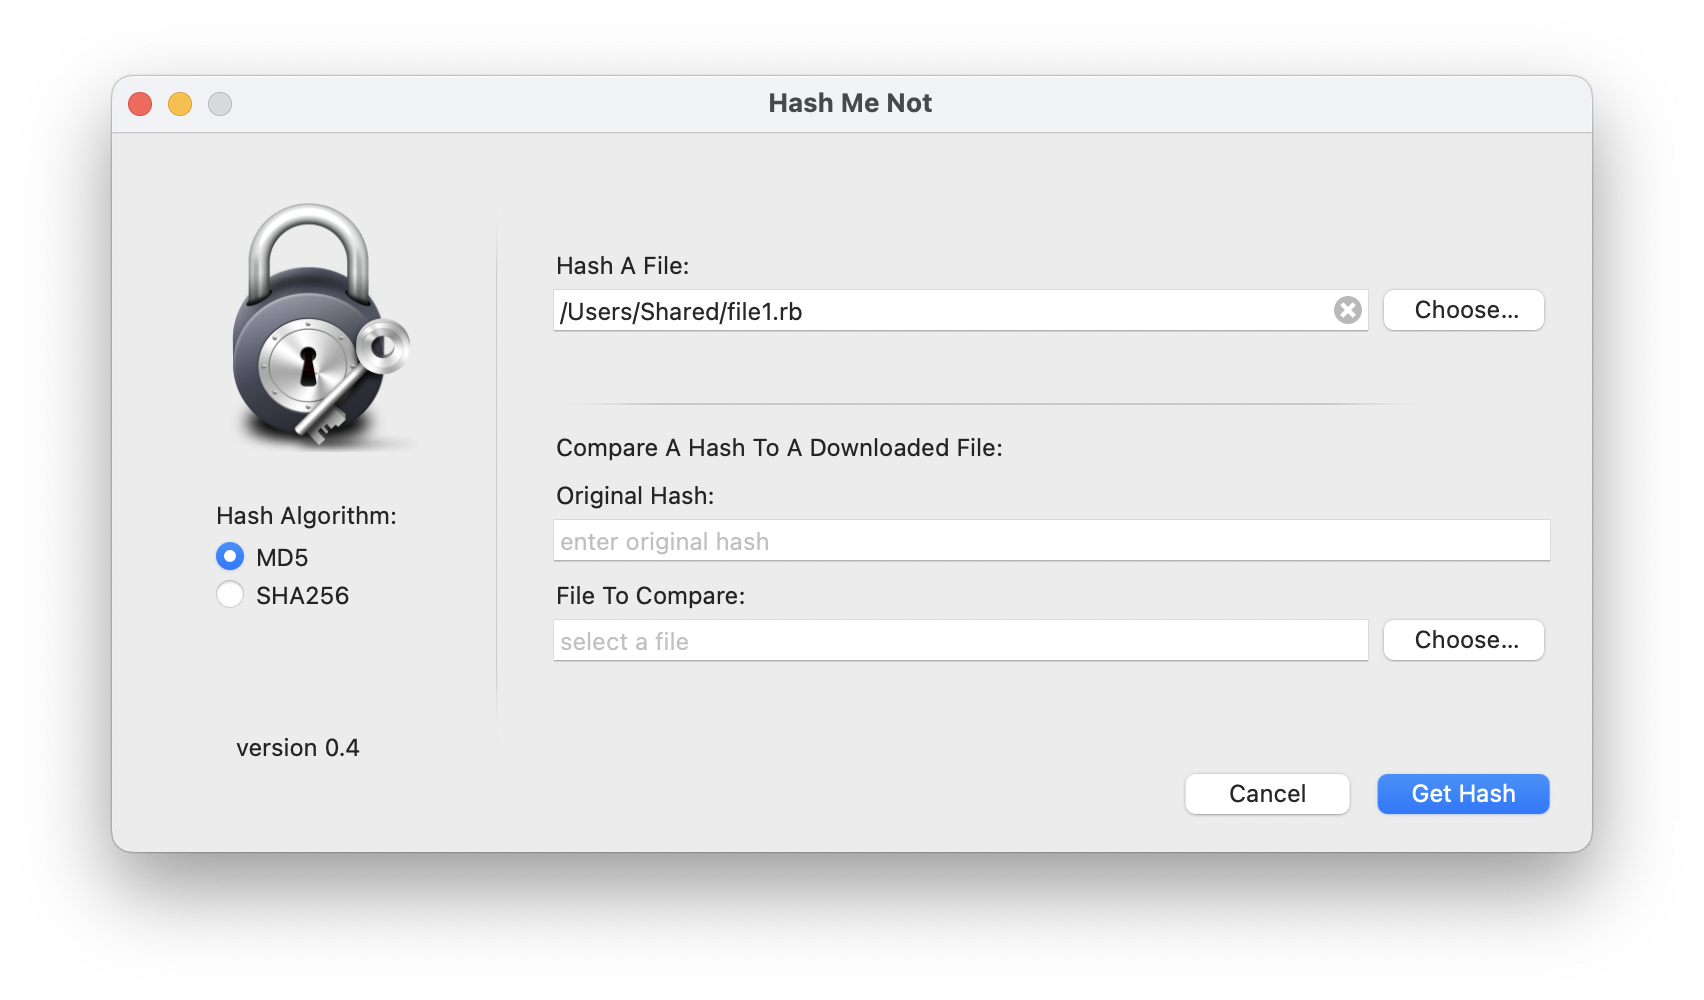
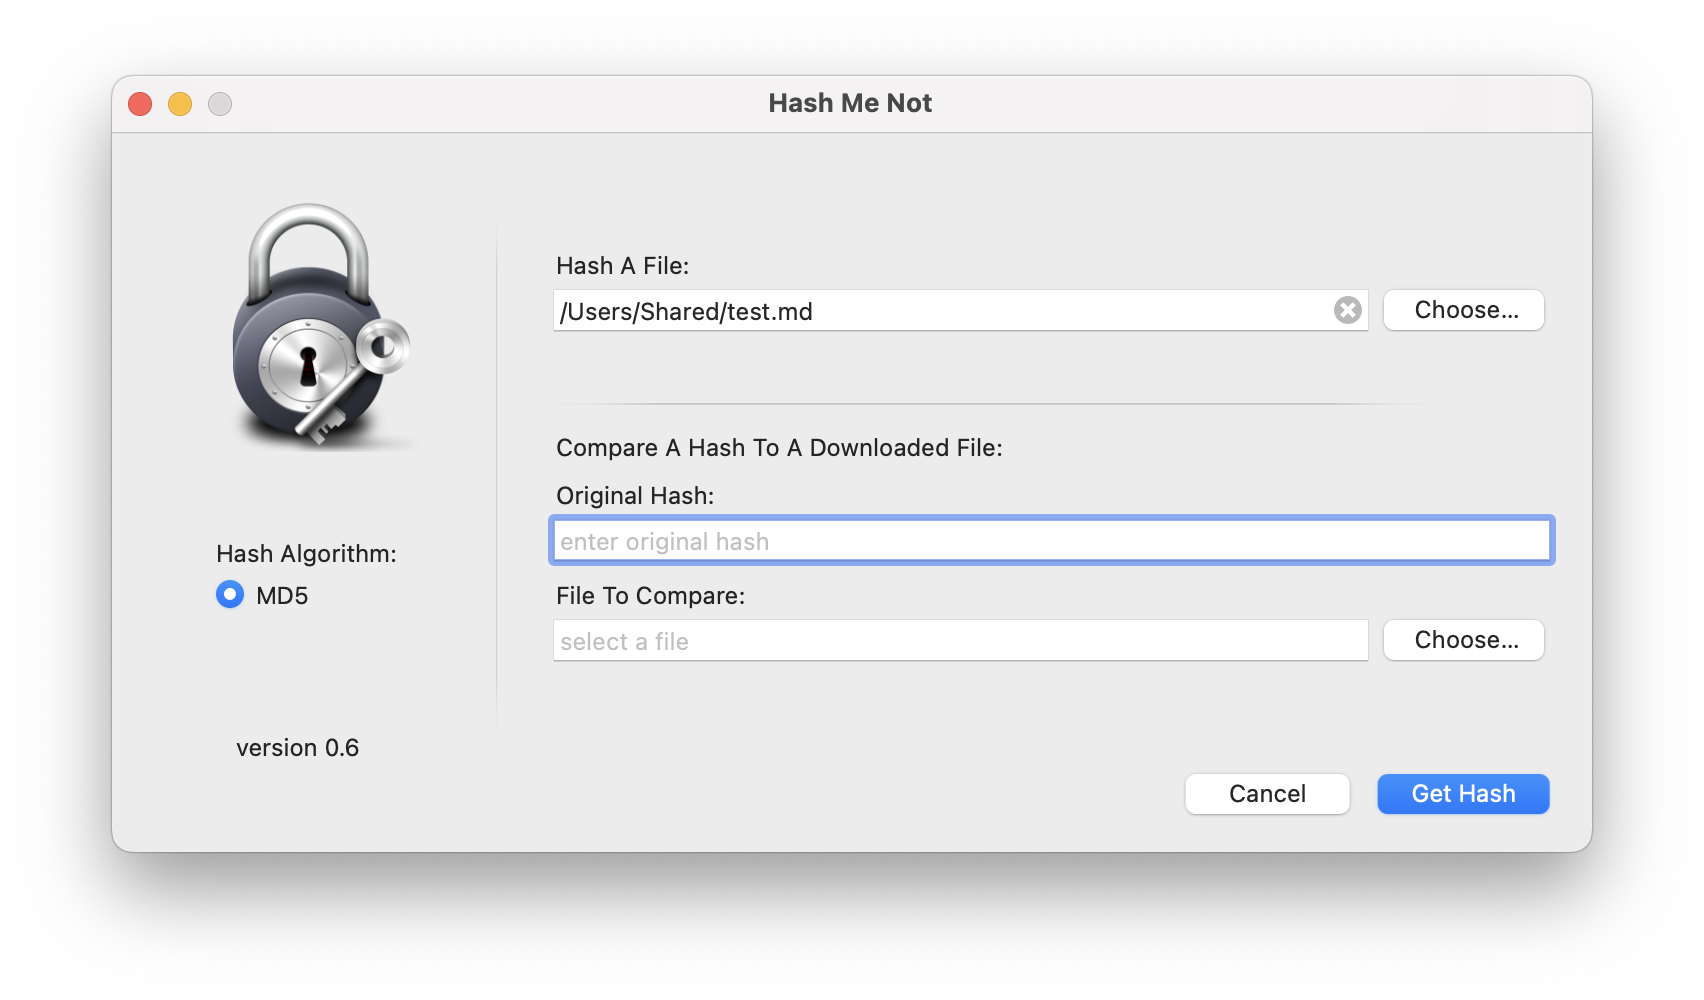
Updated: MD5 fix

Changed region(s): [[0.311, 0.496, 0.9331, 0.589], [0.1244, 0.496, 0.2177, 0.62], [0.4354, 0.31, 0.4665, 0.341]]

diff --git a/README.md b/README.md
@@ -1,7 +1,7 @@
 ## Generate or Compare Files Hashes
 
 #### Usage:
-Use Hashed.app to generate a file hash for MD5 or SHA256
+Use Hashed.app to generate a file hash for MD5 
 
 You can also use Hashed.app to verify the hash of a file you have downloaded. Type or paste the hash into the "Compare hashes" field, then use the "File To Compare" field to select the file that was downloaded.
 
@@ -19,7 +19,11 @@ You can also use Hashed.app to verify the hash of a file you have downloaded. Ty
 ---
 ## Compare a hash to a file
 
+Enter orginal hash and select a file you want to compare the hash to:
 ![001](support/003.png)
 
+If the hashes match:
 ![001](support/004.png)
 
+If the hashes do not match:
+![001](support/006.png)
